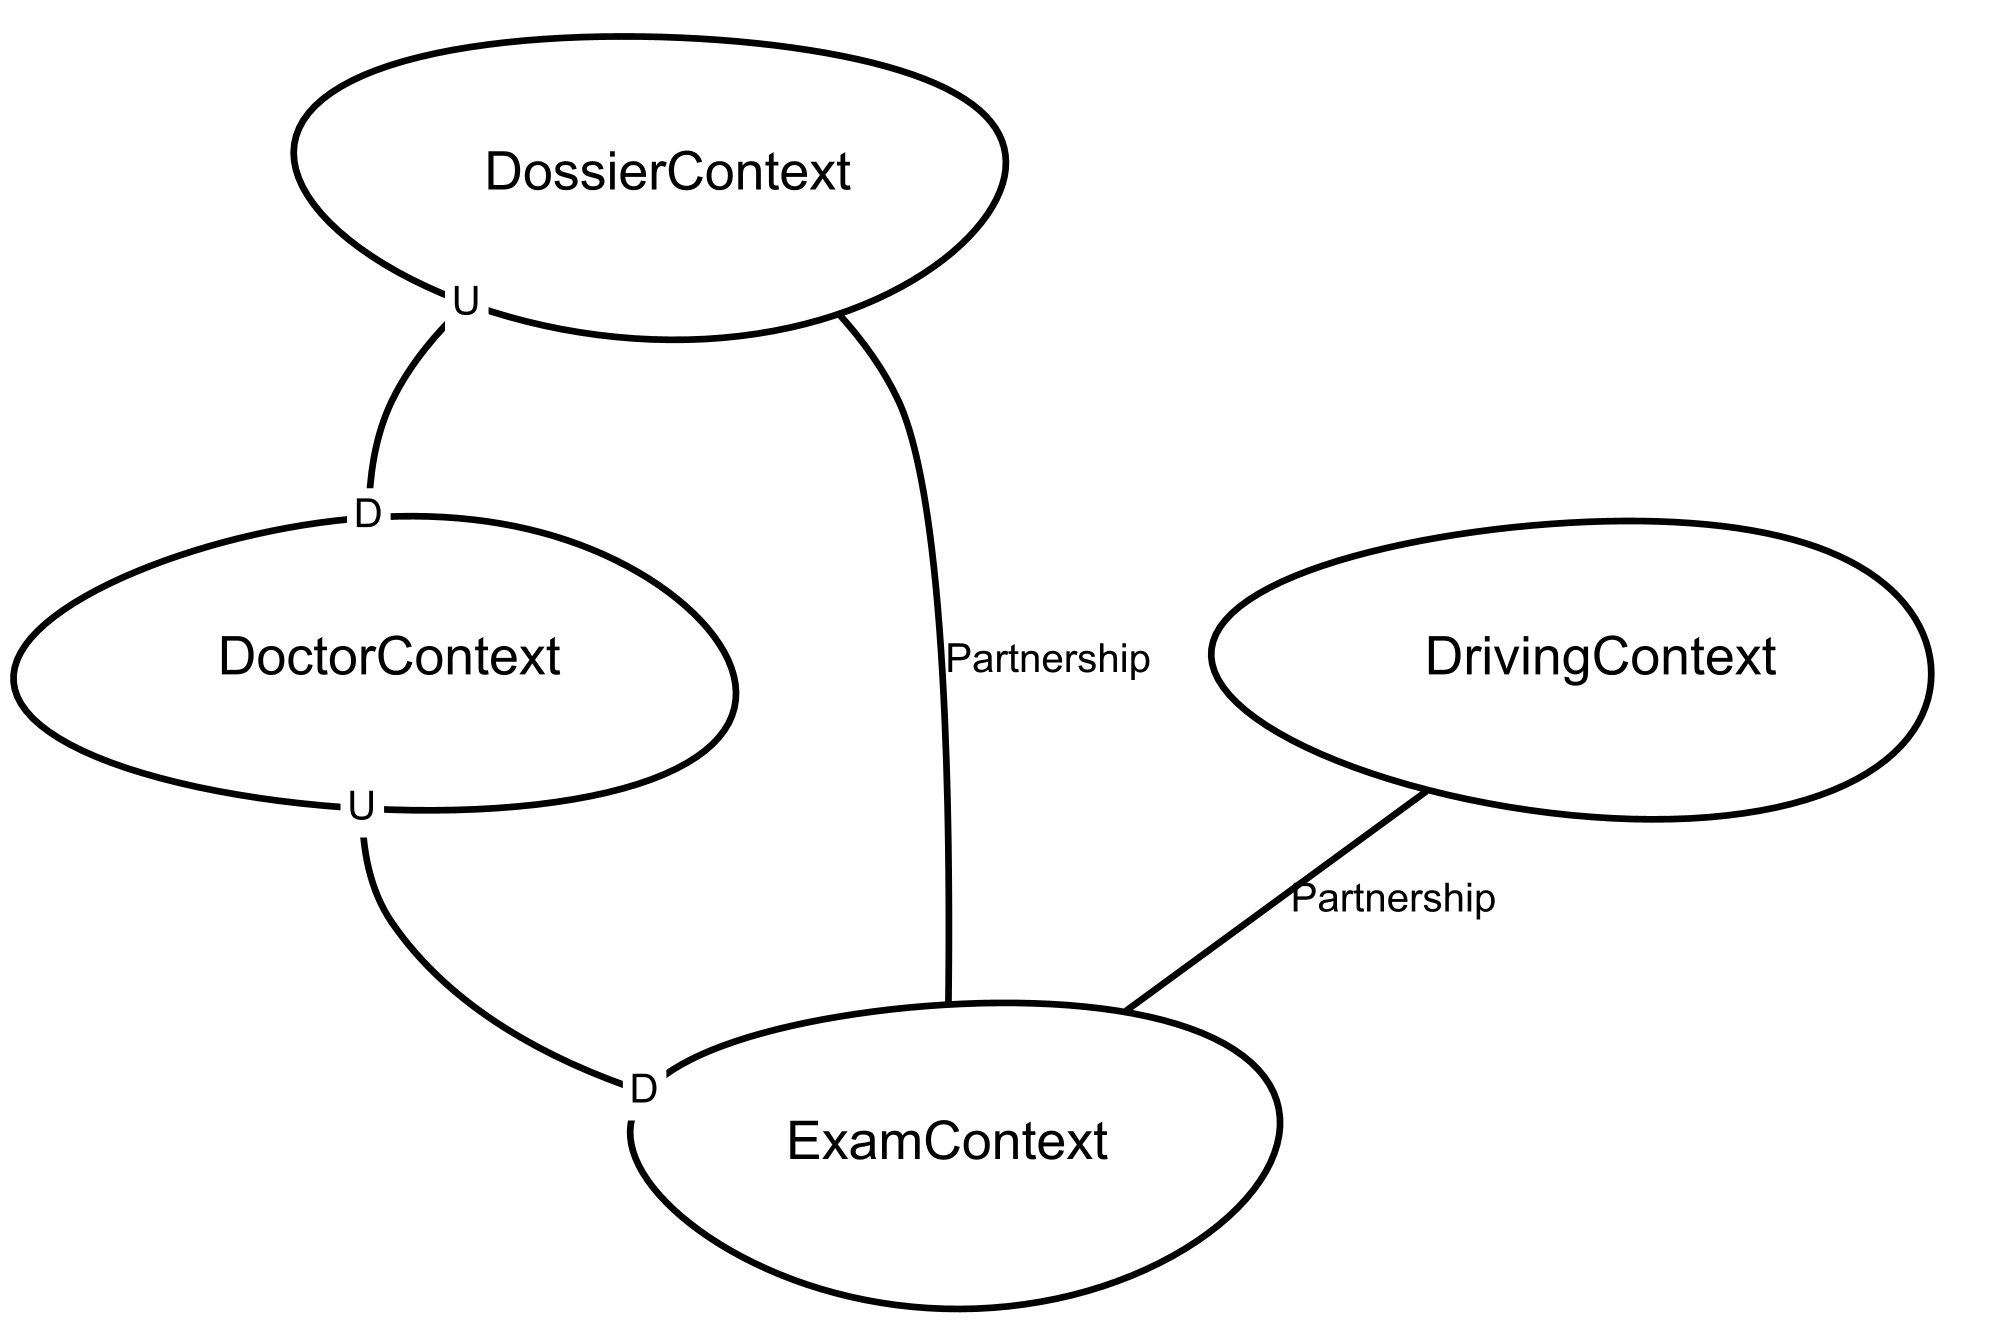
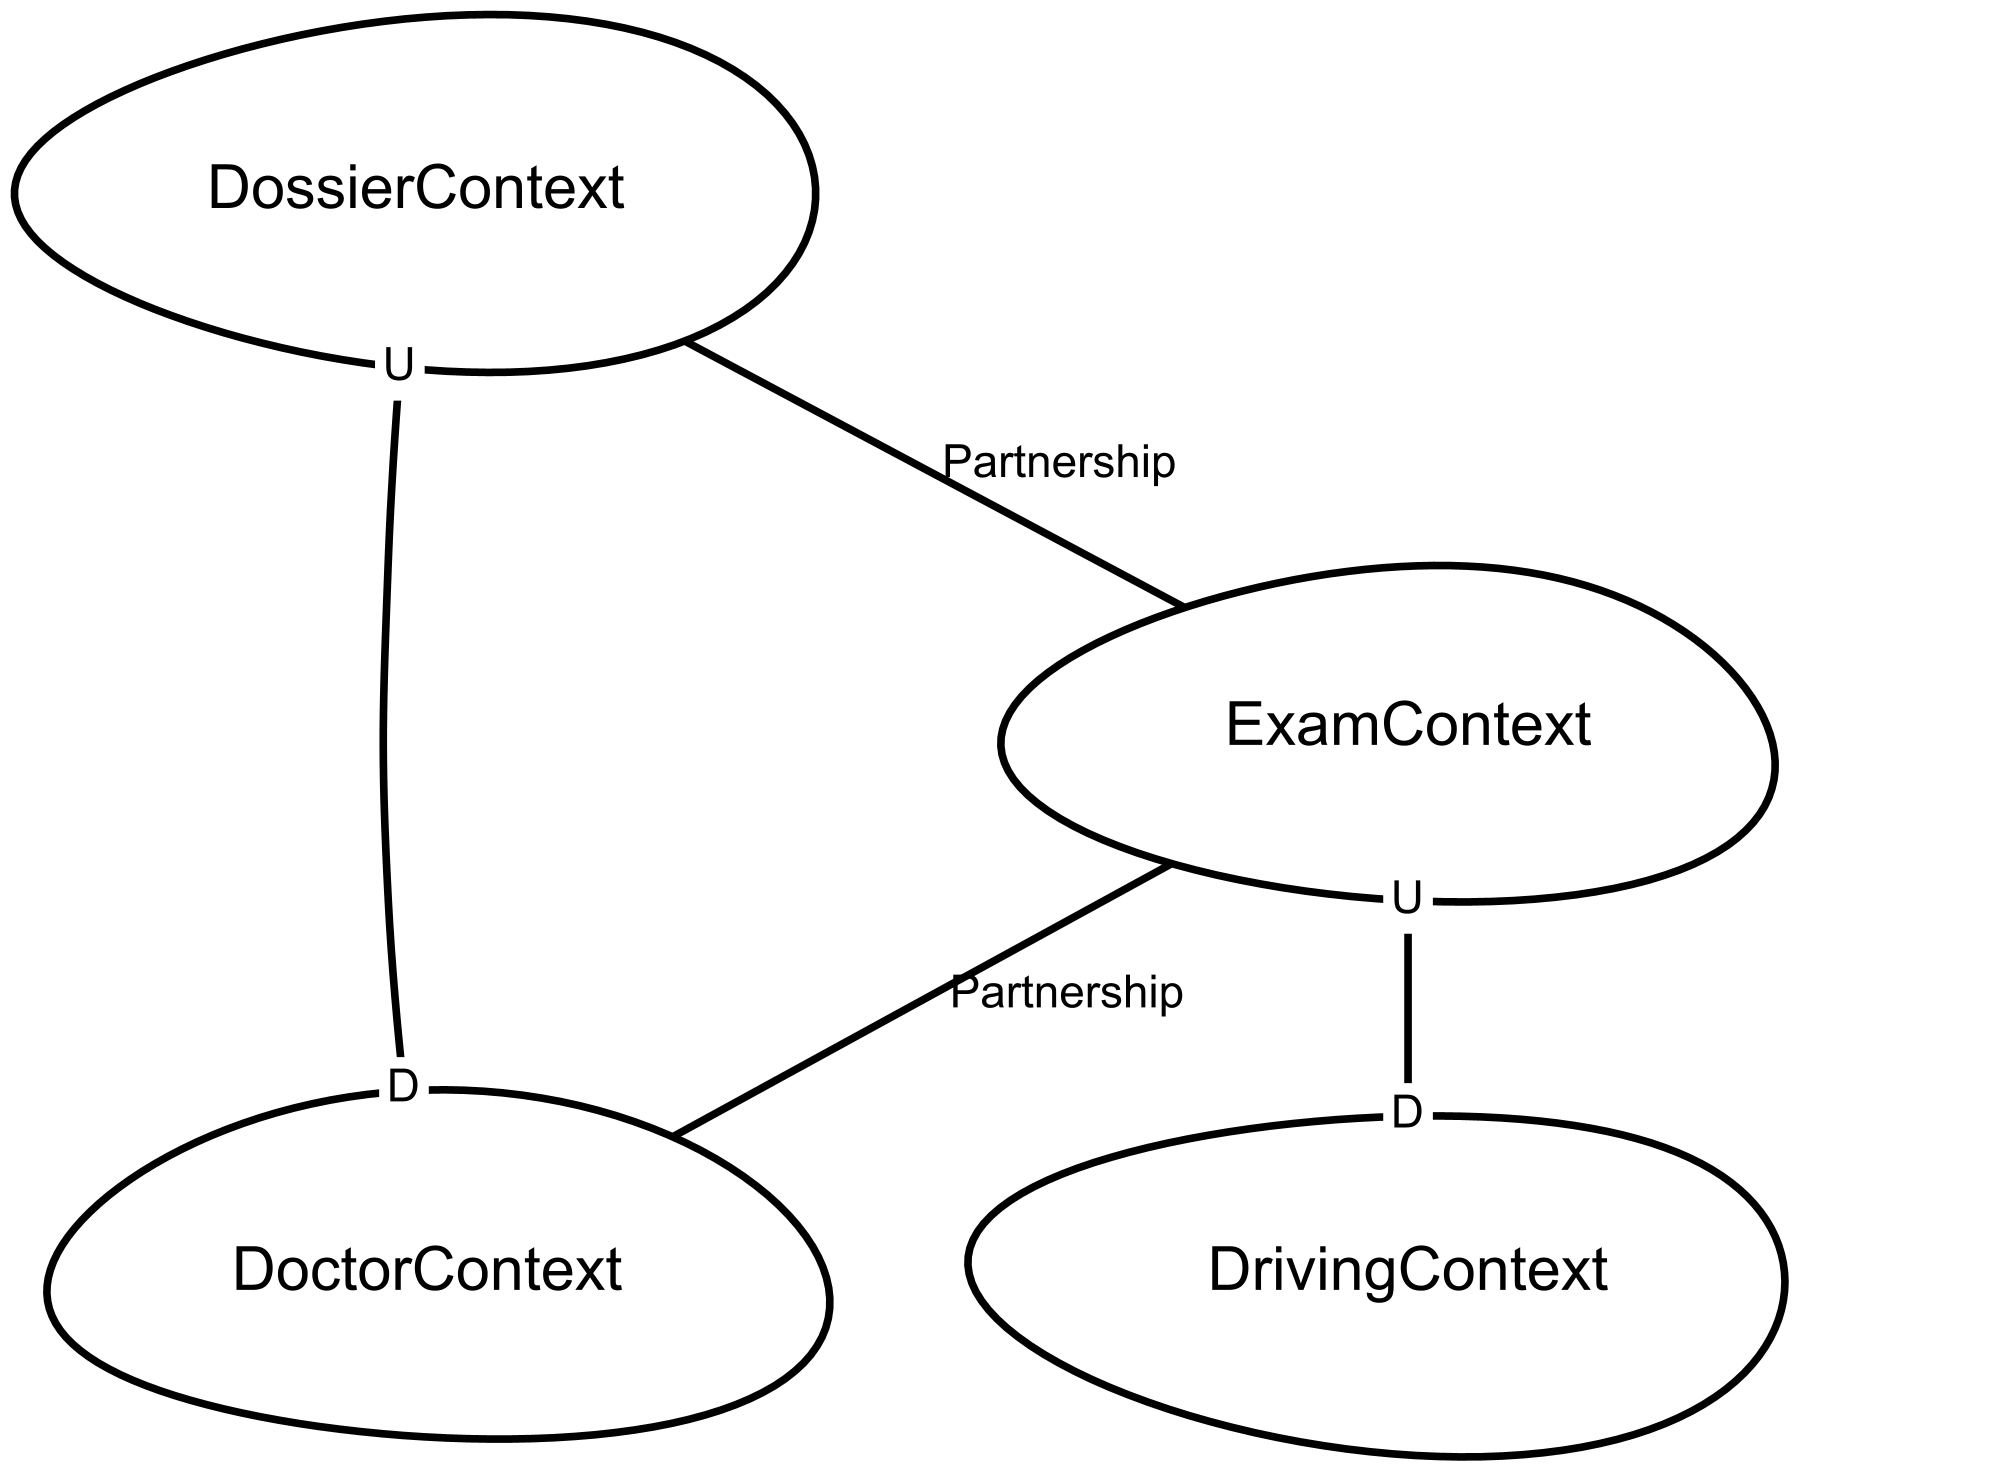
docs: fix documentation problems

diff --git a/docs/report/StrategicalDesign/StrategicalDesign.md b/docs/report/StrategicalDesign/StrategicalDesign.md
@@ -11,14 +11,14 @@ Per evolvere il dominio a questo punto si è pensato di procedere tramite Strate
 Abbiamo quindi individuato, quattro sotto domini all'interno del dominio in esame:
 - Dossier: sotto dominio che mantiene le informazioni di base degli utenti e le procedure per la relativa gestione
 - Exam: sotto dominio per la gestione degli esami pratici e teorici e tutto ciò che ne concerne (es. registro d'esame teorico e foglio rosa)
-- Driving: sotto dominio per la gestione delle guide pratiche effettuate da ciascun iscritto
+- Driving: sotto dominio per la gestione delle guide e gli esami pratici effettuate da ciascun iscritto
 
 I sotto domini sopra elencati, sono stati inoltre classificati come:
 - Generic domain: rappresenta alcune funzioni comuni a più sotto domini
 - Core domain: rappresenta una o più funzioni primarie, all'interno del dominio principale
 - Supporting domain: raggruppa determinate funzioni necessarie ma non fondamentali per il dominio principale
 
-Avendo chiaro le informazioni di cui sopra, i sotto domini precedentemente individuati sono stati classificati come segue: Dossier di tipo Generic, Exam di tipo Core e Driving di tipo Support.
+Avendo chiaro le informazioni di cui sopra, i sotto domini precedentemente individuati sono stati classificati come segue: Dossier di tipo Generic, Driving di tipo Core e Exam di tipo Support.
 
 ### Bounded context
 
@@ -54,18 +54,16 @@ Per ciascun contesto individuato, di seguito si propone una rappresentazione tes
 - La pratica deve poter essere annullata dopo la scadenza del secondo foglio rosa
 - Una pratica invalida, non può essere modificata ma solo visualizzata a fini di storicizzazione
 - Non può essere registrato un iscritto con meno di 16 anni
-- Invalidazione manuale della pratica (opzionale)
   
 **Inbound Communications**:
 - Register a new dossier (Client → a command)
 - Update Practical Exam Status (Client → a command)
-- Aggiornamento di Exam Attempts per ciascuna pratica ( Exam context -> an event )
 - Notification that Provisional license is not valid anymore ( Exam context → an event)
-- Notification that Theoretical or Practical exam has been  ( Exam context → an event)
+- Notification that Theoretical or Practical exam has been passed ( Exam context → an event)
 - Read Dossier (Client, Exam context → a query)
 
 ### Driving context
-**Description**: Consente la gestione degli slot di guida, acquisendo l’informazione relative a veicoli, istruttori e utilizzando l’informazione del foglio rosa relativo a una pratica.
+**Description**: Consente la gestione delle guide, acquisendo l’informazione relative a veicoli, istruttori 
 
 **Strategic classification**:
 - Domain: Core
@@ -75,17 +73,21 @@ Per ciascun contesto individuato, di seguito si propone una rappresentazione tes
 **Business Decisions**:
 - In un certo giorno e orario, uno slot di guida è univocamente collegato a:
     - Un istruttore
-    - Un Id relativo a una pratica
+    - Una pratica
     - Un veicolo
 - La durata di ciascun slot di guida è 30 minuti, iniziando a intervalli regolari di tempo
 - Un iscritto può prenotare uno slot di guida alla volta. Dopo il completamento, può prenotarne uno nuovo.
 - All’inserimento di uno slot di guida, verificare la validità del provisional license
-- Un veicolo dopo X slot di guida deve effettuare un controllo (opzionale)
-
+- Esame pratico è uno slot di guida che ha prerequisiti aggiuntivi:
+  - Può essere registrato solo in Practical exam day
+  - L'iscritto deve aver effettuato 12 o più lezioni pratici
+  
 **Inbound Communications**:
 - Register a new Practical Driving lesson or exam (Client → a command)
 - Delete Practical Driving Lessons (Client → a command)
 - Read Practical Driving slots (Exam context, Client → a query)
+- Register a practical exam day (Client → a command)
+- Visualize pracrtical exam days (Client → a command)
     
 **Outbound Communications**:
 - Check provisional license validity (Exam context → A query)
@@ -105,26 +107,26 @@ Per ciascun contesto individuato, di seguito si propone una rappresentazione tes
     - Necessario un registro d'esame teorico valido, con le seguenti caratteristiche:
         - consente due tentativi d'esame entro sei mesi
         - viene fornito dopo la visita medica
-        - Dopo la scadenza, necessaria una nuova visita medica (Pratica rimane valida)
-- Esame pratico:
-    - Necessario un foglio rosa valido, con le seguenti caratteristiche:
+        - dopo la scadenza, necessaria una nuova visita medica (Pratica rimane valida)
+- Un foglio rosa valido, con le seguenti caratteristiche:
         - consente tre tentativi d'esame entro 12 mesi
         - viene fornito dopo il superamento dell'esame teorico insieme alla notifica a Dossier Context
         - Dopo la prima scadenza, è necessario conseguire l'esame teorico e notificare Dossier Context
-        - Dopo la seconda scadenza, Dossier context viene notificato
+        - Dopo la seconda scadenza, Dossier context viene notificato. Il foglio rossa deve essere cancellato
 
 **Inbound Communications**:
 - Register theoretical exam appeal day (Client → A command)
 - Read list of future theoretical exam appeals (Client -> A query)
 - Read theoretical exam appeal information (Client -> A query)
 - Register a dossier in Exam Appeal (Client → A command)
-- Creation of a Theoretical Exam pass (Doctor context → A command)
+- Creation of a Theoretical Exam pass (Doctor context → an event)
 - Create Provisional License (Client -> a command)
 - Read Provisional License info (Client -> a query)
 - Check validity of Provisional License (Driving context → A query)
 
 **Outbound Communications**:
 - Notify start validity or invalidity of the Provisional license (Dossier context → an event)
+- Check validity of dossier (Dossier context →  a query)
 
 ### Doctor context
 
@@ -143,8 +145,8 @@ Per ciascun contesto individuato, di seguito si propone una rappresentazione tes
 **Inbound Communications**:
 - Read Doctor slots (Client → A Query)
 - Add Doctor slots (Client → A command)
-- Register visit result for a dossier id (Client -> A command)
+- Register doctor visit result (Client -> A command)
   
 **Outbound Communications**:
 - Comunicate that visit has been done (Exam context -> A command)
-- Read dossier to verify validity (Dossier context -> A query)
+- Check validity of dossier (Dossier context →  a query)

diff --git a/docs/report/TacticalDesign/DrivingService.md b/docs/report/TacticalDesign/DrivingService.md
@@ -144,7 +144,7 @@ class ExamServiceChannel {
 Il diagramma di sequenza in figura, consente di descrivere nel dettaglio la procedura necessaria alla registrazione di una nuova Guida Pratica, che non rappresenta perciò un esame pratico.
 La prima operazione effettuata successivamente alla richiesta di prenotazione, è la verifica dei requisiti necessari, quali ad esempio la validità degli orari/giorni forniti, dei dati forniti per l'istruttore.
 Se questo viene validato, si procede con il controllo del foglio rosa. Questa verifica avviene mediante Exam Service, verso il quale otteniamo collegamento mediante Exam Service Channel, precedentemente introdotto.
-Se anche la seconda verifica, si procede con successo all'inserimento del Driving Slot nel Db.
+Se anche la seconda verifica, si procede con successo all'inserimento del Driving Slot nel DB.
 
 Ipotizzando la prenotazione di una guida d'esame, si aggiungerebbero alcuni constraints e conseguentemente ulteriori verifiche da completare con successo(ad esempio sulla corretta selezione di un giorno d'esame), prima di poter inserire il driving slot sul database.
 

diff --git a/docs/report/Requisiti/Requisiti.md b/docs/report/Requisiti/Requisiti.md
@@ -68,7 +68,7 @@ Optional: un dossier può essere invalidato manualmente, tramite una chiamata ad
 I requisiti non funzionali riguardano le funzionalità che il sistema non deve necessariamente possedere per fare in modo che sia funzionante e corretto.
 
 I requisiti non funzionali che sono stati individuati sono i seguenti:
-- il software deve essere cross-platform, cioè eseguibile sia su sistemi operativi Windows che su MacOS e Linux, o comunque su qualsiasi sistema operativo capace di supportare Java Runtime Environment versione 16 e successive;
+- il software deve essere eseguibile sul sistema operativo Linux, e supportare  Java Runtime Environment versione 16, 17 e 18;
 - il sistema deve essere integrabile con front-end esterni, utilizzando le API messe a disposizione;
 
 ## Requisiti implementativi

diff --git a/docs/report/TacticalDesign/ExamService.md b/docs/report/TacticalDesign/ExamService.md
@@ -159,7 +159,7 @@ Il diagramma di sequenza in figura, mostra le azioni effettuate per l'operazione
 Come visibile dal diagramma dopo il conseguimento dell'esame, la Provisional License relativa all'iscritto viene eliminata e rimossa dal sistema.
 
 Per ciascuna operazione l'iter iniziale è il medesimo: aggiornamento della Provisional License, e successivamente check del dossier relativo ed esecuzione di ulteriori azioni se necessarie.
-La stessa sequenza viene inoltre seguita per la gestione del Theoretical Exam Pass, con riferimento però all'esame teorico, all'interno del dominio in esame.
+Una sequenza simile viene inoltre seguita per la gestione del Theoretical Exam Pass, con riferimento però all'esame teorico, all'interno del dominio in esame.
 
 ```mermaid
 sequenceDiagram
